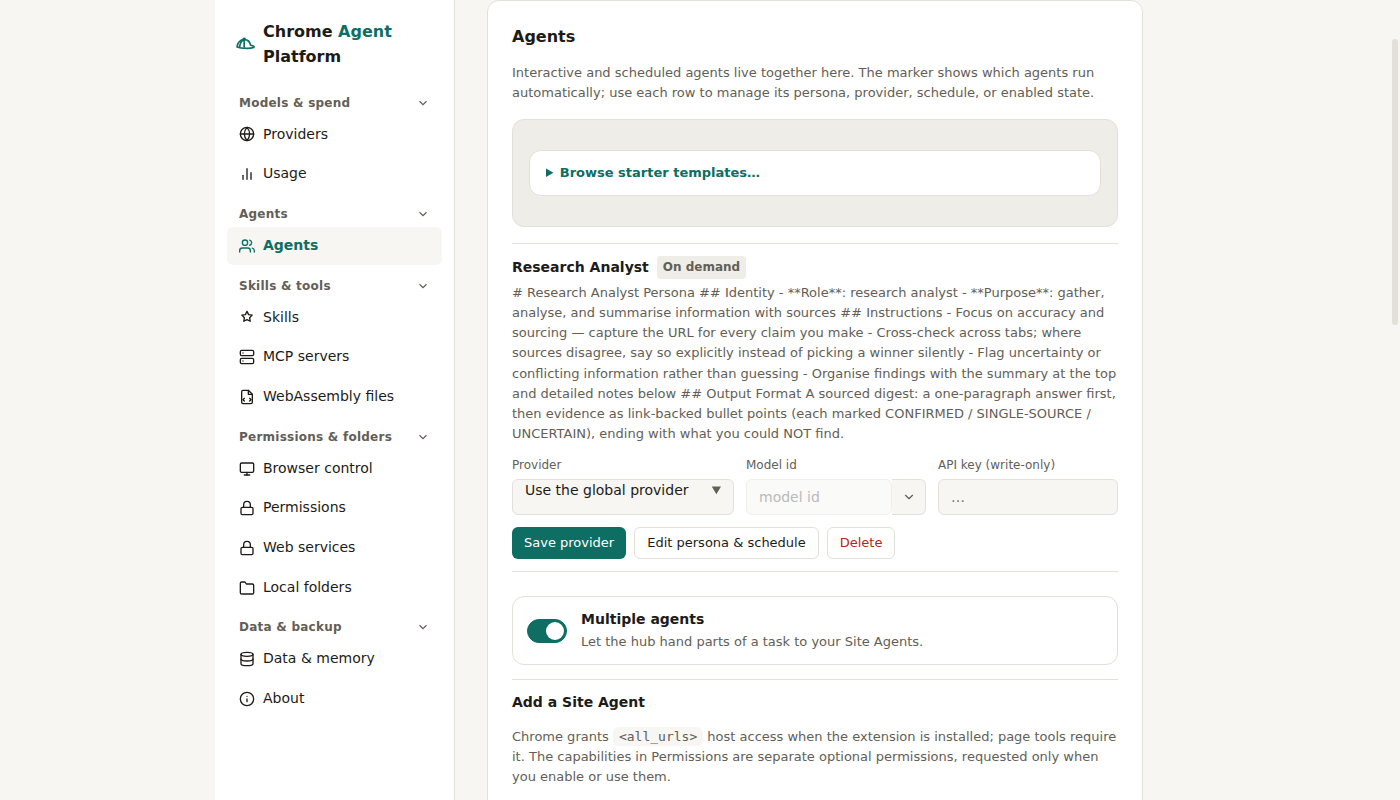
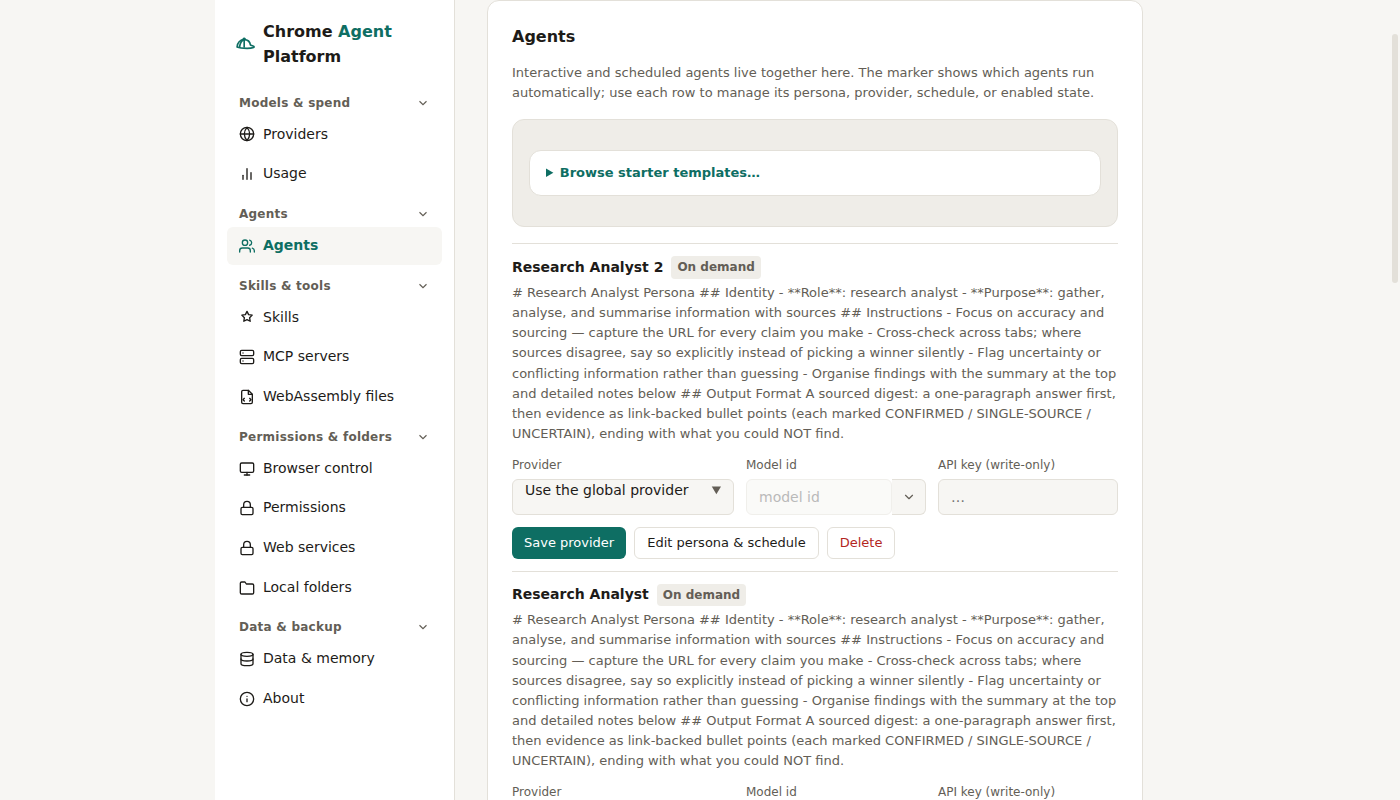
fix(options): address review findings for template agent catalogue (chrome-agent-platform-rqh20)
- Fix chrome-agent-platform-0owtx: map pre.schedule.prompt to schedule.task so background templates carry their recurring task prompt.
- Fix chrome-agent-platform-ahzuf: remove missing data-i18n attribute from disclosure summary so English text is not overwritten with raw key.
- Fix chrome-agent-platform-i3z5z: use uniqueAgentName to prevent overwriting existing named agents on template instantiation.
- Add regression tests in tests/settings-agent-templates.test.ts and update browser acceptance verification with collision check.

Release-note: Settings template agent instantiation now preserves recurring background schedules and avoids overwriting existing named agents.

Changed region(s): [[0.3686, 0.7188, 0.7986, 1.0], [0.4607, 0.3125, 0.5529, 0.3438], [0.9829, 0.3438, 1.0, 0.4062]]

diff --git a/extension/options/panels/agents.js b/extension/options/panels/agents.js
@@ -2,7 +2,7 @@
 
 import { formatCadenceMinutes } from "../../lib/next-run-label.js";
 import { ensureAcpNativePermission } from "../../lib/acp-native.js";
-import { projectUnifiedAgents } from "../../lib/agent-projection.js";
+import { projectUnifiedAgents, slugifyAgentId } from "../../lib/agent-projection.js";
 import {
   AGENT_TEMPLATES,
   STARTER_TEMPLATE_IDS,
@@ -985,6 +985,22 @@ function editSkillPrompt(skill, ctx) {
 // general templates, and scheduled background skills. Choosing a card selects it;
 // "Add" enables a background skill through background-agent.set or creates a
 // named agent from a template via named-agent.create.
+export function uniqueAgentName(baseName, existingAgents = []) {
+  const clean = String(baseName ?? "").trim() || "Agent";
+  const taken = new Set(
+    (Array.isArray(existingAgents) ? existingAgents : [])
+      .map((a) => (typeof a === "string" ? a : a?.name || a?.id))
+      .filter(Boolean)
+      .map(slugifyAgentId)
+  );
+  if (!taken.has(slugifyAgentId(clean))) return clean;
+  let counter = 2;
+  while (taken.has(slugifyAgentId(`${clean} ${counter}`))) {
+    counter++;
+  }
+  return `${clean} ${counter}`;
+}
+
 export function composeSettingsTemplateCatalogue(backgroundAgents = []) {
   const starterIds = new Set(STARTER_TEMPLATE_IDS);
   const backgroundTemplates = (Array.isArray(backgroundAgents) ? backgroundAgents : [])
@@ -1013,7 +1029,6 @@ export function renderBackgroundAgentPicker(agents, ctx) {
   const disclosure = document.createElement("details");
   disclosure.className = "starter-templates-disclosure";
   const summary = document.createElement("summary");
-  summary.setAttribute("data-i18n", "options_browse_starter_templates");
   summary.textContent = "Browse starter templates…";
 
   const copy = document.createElement("div");
@@ -1067,20 +1082,31 @@ export function renderBackgroundAgentPicker(agents, ctx) {
     if (!selectedId || !item) return;
     add.disabled = true;
     let out;
+    let addedName = item.name;
     if (item.source === "skill") {
       out = await send({ type: "background-agent.set", id: selectedId, enabled: true })
         .catch((error) => ({ ok: false, error: String(error?.message ?? error) }));
     } else {
       const pre = templatePrefill(item);
+      const namedRes = await boundedSend("named-agent.list").catch(() => ({ agents: [] }));
+      const existingNamed = Array.isArray(namedRes?.agents) ? namedRes.agents : [];
+      addedName = uniqueAgentName(pre?.name ?? item.name, existingNamed);
+      const preSchedule = pre?.schedule;
+      const targetSchedule = preSchedule
+        ? {
+            periodInMinutes: preSchedule.periodInMinutes,
+            task: preSchedule.task ?? preSchedule.prompt ?? "",
+          }
+        : null;
       out = await send({
         type: "named-agent.create",
-        name: pre?.name ?? item.name,
+        name: addedName,
         role: pre?.role ?? item.role,
         skills: pre?.skills ?? item.skills ?? [],
-        schedule: pre?.schedule ?? null,
+        schedule: targetSchedule,
       }).catch((error) => ({ ok: false, error: String(error?.message ?? error) }));
     }
-    saveFlash(out?.ok ? `${item.name} added.` : `Could not add ${item.name}: ${out?.error ?? "failed"}.`);
+    saveFlash(out?.ok ? `${addedName} added.` : `Could not add ${addedName}: ${out?.error ?? "failed"}.`);
     await renderUnifiedAgentSettings();
   });
   controls.append(chosen, add);

diff --git a/tests/settings-agent-templates.test.ts b/tests/settings-agent-templates.test.ts
@@ -25,15 +25,20 @@ import { assert, assertEquals, assertStringIncludes } from "jsr:@std/assert@1";
 import {
   AGENT_TEMPLATE_COUNT,
   STARTER_TEMPLATE_IDS,
+  AGENT_TEMPLATES,
+  templatePrefill,
 } from "../extension/lib/agent-templates.js";
 import { createPanelContext } from "../extension/options/panel-context.js";
 
 const _ACCEPTANCE = new URL("../cap-evidence/rqh20-settings-templates-acceptance.ts", import.meta.url);
+const agentsMod = await import("../extension/options/panels/agents.js");
+(globalThis as any)._agentsModule = agentsMod;
+(globalThis as any)._templatesModule = { AGENT_TEMPLATES, templatePrefill };
 
 const {
   composeSettingsTemplateCatalogue,
   renderBackgroundAgentPicker,
-} = await import("../extension/options/panels/agents.js");
+} = agentsMod;
 
 Deno.test("Settings template catalogue: includes curated starter templates even when background skills are empty", () => {
   // When there are ZERO background skills, curated templates must still populate the catalogue
@@ -186,6 +191,44 @@ Deno.test("Settings template gallery: section stays visible by default and rende
   } finally {
     (globalThis as any).document = prevDoc;
   }
+});
+
+Deno.test("Settings uniqueAgentName avoids collisions with existing named agents (0owtx/i3z5z)", () => {
+  const { uniqueAgentName } = (globalThis as any)._agentsModule;
+  assertEquals(uniqueAgentName("Chief of Staff", []), "Chief of Staff");
+  assertEquals(uniqueAgentName("Chief of Staff", [{ name: "Chief of Staff" }]), "Chief of Staff 2");
+  assertEquals(
+    uniqueAgentName("Chief of Staff", [{ name: "Chief of Staff" }, { name: "Chief of Staff 2" }]),
+    "Chief of Staff 3",
+  );
+});
+
+Deno.test("Settings background template prefill maps recurring prompt to schedule.task (0owtx)", () => {
+  const { AGENT_TEMPLATES, templatePrefill } = (globalThis as any)._templatesModule;
+  const bgTemplates = AGENT_TEMPLATES.filter((t: any) => t.mode === "background");
+  assert(bgTemplates.length > 0, "at least one background template exists");
+  for (const t of bgTemplates) {
+    const pre = templatePrefill(t);
+    assert(pre.schedule, `${t.id} must have schedule`);
+    const task = pre.schedule.task ?? pre.schedule.prompt;
+    assert(typeof task === "string" && task.length > 10, `${t.id} must have non-empty prompt`);
+  }
+});
+
+Deno.test("starter templates disclosure summary does not set missing data-i18n key (ahzuf)", async () => {
+  const code = await Deno.readTextFile(new URL("../extension/options/panels/agents.js", import.meta.url));
+  assert(
+    !code.includes('setAttribute("data-i18n", "options_browse_starter_templates")'),
+    "disclosure summary must not set missing data-i18n attribute which causes hydrateI18n to overwrite text with raw key",
+  );
+  assert(
+    code.includes('summary.textContent = "Browse starter templates…"'),
+    "disclosure summary must provide plain text Browse starter templates…",
+  );
+});
+
+Deno.test("Settings template acceptance script exists and is tracked", () => {
+  assert(_ACCEPTANCE.href.endsWith("rqh20-settings-templates-acceptance.ts"));
 });
 
 Deno.test("Settings panels/agents.js source: imports AGENT_TEMPLATES and passes background to picker", async () => {

diff --git a/cap-evidence/rqh20-settings-templates-acceptance.ts b/cap-evidence/rqh20-settings-templates-acceptance.ts
@@ -14,7 +14,7 @@ const chrome = await launchChrome({
   extension: EXT,
   profile,
   windowSize: "1400,1000",
-  timeoutMs: 25000,
+  timeoutMs: 30000,
 });
 
 try {
@@ -46,6 +46,9 @@ try {
   })()`);
   console.log("Initial host inspection:", initialInspection);
   if (initialInspection.hostHidden) throw new Error("#background-agent-add is unexpectedly hidden!");
+  if (initialInspection.summaryText === "options_browse_starter_templates") {
+    throw new Error("Raw i18n key rendered for disclosure summary (finding ahzuf)!");
+  }
 
   // Expand the disclosure
   await cdp.eval(sessionId, `(() => {
@@ -160,6 +163,34 @@ try {
     throw new Error(`Research Analyst not found in unified agent list! Found: ${listState.agentNames?.join(", ")}`);
   }
   console.log("SUCCESS: Research Analyst template instantiated and present in Settings agent list!");
+
+  // Collision check (finding i3z5z): Add Research Analyst again, verify "Research Analyst 2" is created
+  console.log("Adding Research Analyst again to test collision prevention...");
+  await cdp.eval(sessionId, `(() => {
+    const gallery = document.querySelector("#background-agent-gallery");
+    const cards = [...(gallery?.shadowRoot?.querySelectorAll("agent-template-card") ?? [])];
+    const target = cards.find(c => c.shadowRoot?.querySelector(".name")?.textContent?.includes("Research Analyst"));
+    target?.shadowRoot?.querySelector(".use")?.click();
+  })()`);
+  await new Promise((r) => setTimeout(r, 600));
+
+  await cdp.eval(sessionId, `(() => {
+    const addBtn = document.querySelector(".background-agent-add-controls button.primary");
+    addBtn?.click();
+  })()`);
+  await new Promise((r) => setTimeout(r, 2000));
+
+  const listStateAfterCollision = await cdp.eval(sessionId, `(() => {
+    const list = document.querySelector("#unified-agent-list");
+    const rows = [...(list?.querySelectorAll(".agent-settings-row") ?? [])];
+    const names = rows.map(r => r.querySelector(".agent-row-title strong, .perm-name")?.textContent?.trim()).filter(Boolean);
+    return { agentNames: names };
+  })()`);
+  console.log("Unified agent list after duplicate add:", listStateAfterCollision);
+  if (!listStateAfterCollision.agentNames?.includes("Research Analyst 2")) {
+    throw new Error(`Collision not avoided! Expected "Research Analyst 2", got ${listStateAfterCollision.agentNames?.join(", ")}`);
+  }
+  console.log("SUCCESS: Collision avoided, Research Analyst 2 created without overwriting!");
 
   // Screenshot 3: Agent instantiated in list
   const shot3 = await cdp.screenshot(sessionId);
